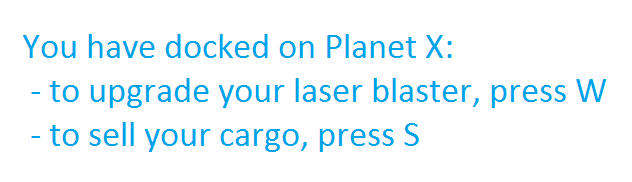
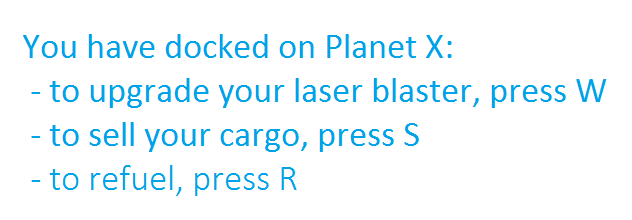
ship now burns fuel at speeds above 2 and can refuel when docking

Changed region(s): [[0.0301, 0.3571, 0.962, 0.8791], [0.0301, 0.1374, 0.7215, 0.3297]]

diff --git a/allegroTest/allegroTest/main.cpp b/allegroTest/allegroTest/main.cpp
@@ -104,6 +104,7 @@ void shutdown();
 void fire();
 void triggerCollision();
 void dock();
+void refuel();
 void upgrade_weapon();
 void hyperdrive();
 void press_key(ALLEGRO_EVENT);
@@ -311,15 +312,20 @@ void fire()
 void dock()
 {
 	for (int i=0; i<planets.size(); i++) {
-		if (players.at(0).canDock) {
+		if (players.at(0).canDock && players.at(0).speed==0) {  //also requires the ship to stop
 			if (screenMode == 2) screenMode = 1; //Undock, if already docked and docking activated
 			else if (screenMode == 1) { //Else, if able to dock, do so, stop ship and set it to safe mode
 				screenMode = 2;
-				players.at(0).speed = 0;
+				//players.at(0).speed = 0; Unnecessary if the ship is required to stop first
 				safe = true;
 			}
 		}
 	}
+}
+
+void refuel()
+{
+	players.at(0).fuel = 100;
 }
 
 void triggerCollision() {
@@ -452,6 +458,9 @@ void press_key(ALLEGRO_EVENT e)
 			if (e.keyboard.keycode == ALLEGRO_KEY_D) {
 				dock();
 			}
+			if (e.keyboard.keycode == ALLEGRO_KEY_R) {
+				refuel();
+			}
 			break;
 		}
 
@@ -536,10 +545,19 @@ void update_logic()
 
 		//Increase or decrease players.at(0).speed
 		if (upPressed) {
-			if (players.at(0).speed<players.at(0).maxSpeed) players.at(0).speed += 1;
+			if (players.at(0).speed>=2 && players.at(0).speed<players.at(0).maxSpeed && players.at(0).fuel>0) {
+				players.at(0).speed += 1; 
+				players.at(0).fuel -= 1;
+			}
+			if (players.at(0).speed<=1) players.at(0).speed += 1;
 		}
 		else if (downPressed) {
-			if (players.at(0).speed>0) players.at(0).speed -= 1;
+			if (players.at(0).speed>2 && players.at(0).fuel>0) {
+				players.at(0).speed -= 1;
+				players.at(0).fuel -= 1;
+			}
+			if (players.at(0).speed>0 && players.at(0).fuel==0) players.at(0).speed -= 1;
+			if (players.at(0).speed>0 && players.at(0).speed<=2 && players.at(0).fuel>0) players.at(0).speed -= 1;
 		}
 
 		//Resolve translations for x and y axis
@@ -819,13 +837,22 @@ void update_graphics()
 		//al_draw_rectangle(0-bgX, 0-bgY, maxX-bgX, maxY-bgY, al_map_rgb(255, 255, 255), 10);
 		
 		//Draw stats to screen
-		stringstream s1, s2;
+		stringstream s1, s2, s3, s4, s5;
 		s1 << "Health: " << players.at(0).health;
 		s2 << "Coordinates: " << players.at(0).x << " , " << players.at(0).y;
+		s3 << "Armour: " << players.at(0).armour;
+		s4 << "Fuel: " << players.at(0).fuel;
+		//s5 << "Energy: " << players.at(0).energy;
 		string str1 = s1.str();
 		string str2 = s2.str();
+		string str3 = s3.str();
+		string str4 = s4.str();
+		//string str5 = s5.str();
 		al_draw_text(font, al_map_rgb(255,255,255), windowWidth*0.05, windowHeight*0.1, 0, str1.c_str());
 		al_draw_text(font, al_map_rgb(255,255,255), windowWidth*0.05, windowHeight*0.9, 0, str2.c_str());
+		al_draw_text(font, al_map_rgb(255,255,255), windowWidth*0.05, windowHeight*0.15, 0, str3.c_str());
+		al_draw_text(font, al_map_rgb(255,255,255), windowWidth*0.05, windowHeight*0.2, 0, str4.c_str());
+		//al_draw_text(font, al_map_rgb(255,255,255), windowWidth*0.05, windowHeight*0.25, 0, str5.c_str());
 
 		//Draw radar
 		al_draw_scaled_rotated_bitmap(radarSprite, radarScreenWidth/2, radarScreenHeight/2, windowWidth*0.85, windowHeight*0.15, 0.2, 0.2, 0, 0);

diff --git a/allegroTest/allegroTest/Ship.h b/allegroTest/allegroTest/Ship.h
@@ -7,7 +7,8 @@
 
 class Ship {
 public:
-	int id, x, y, height, width, speed, speedX, speedY, maxSpeed, health, flipflop, fireballNumber, fireX[MAXFIREBALLS], fireY[MAXFIREBALLS], fireHeight, fireWidth, fireSpeed, fireCycle;
+	int id, x, y, height, width, speed, speedX, speedY, maxSpeed, health, flipflop, fireballNumber, 
+		fireX[MAXFIREBALLS], fireY[MAXFIREBALLS], fireHeight, fireWidth, fireSpeed, fireCycle, armour, energy, fuel;
 	float angle, fireAngle[MAXFIREBALLS];
 	ALLEGRO_BITMAP *shipSprite, *shipSprite1, *shipSprite2, *shipSpriteCurrent;
 	ALLEGRO_BITMAP *fireSprite[MAXFIREBALLS];

diff --git a/allegroTest/allegroTest/Ship.cpp b/allegroTest/allegroTest/Ship.cpp
@@ -13,6 +13,9 @@ Ship::Ship() {
 	maxSpeed = 10;
 	angle = 0;
 	health = 6;
+	armour = 0;
+	fuel = 100;
+	energy = 0;
 	flipflop = 0;
 	fireWidth = 30;
 	fireHeight = 20;
@@ -44,6 +47,9 @@ Ship::Ship(const char* filename1, const char* filename2, const char* filename3, 
 	maxSpeed = 10;
 	angle = 0;
 	health = 6;
+	armour = 0;
+	fuel = 100;
+	energy = 0;
 	flipflop = 0;
 	fireWidth = 30;
 	fireHeight = 20;
